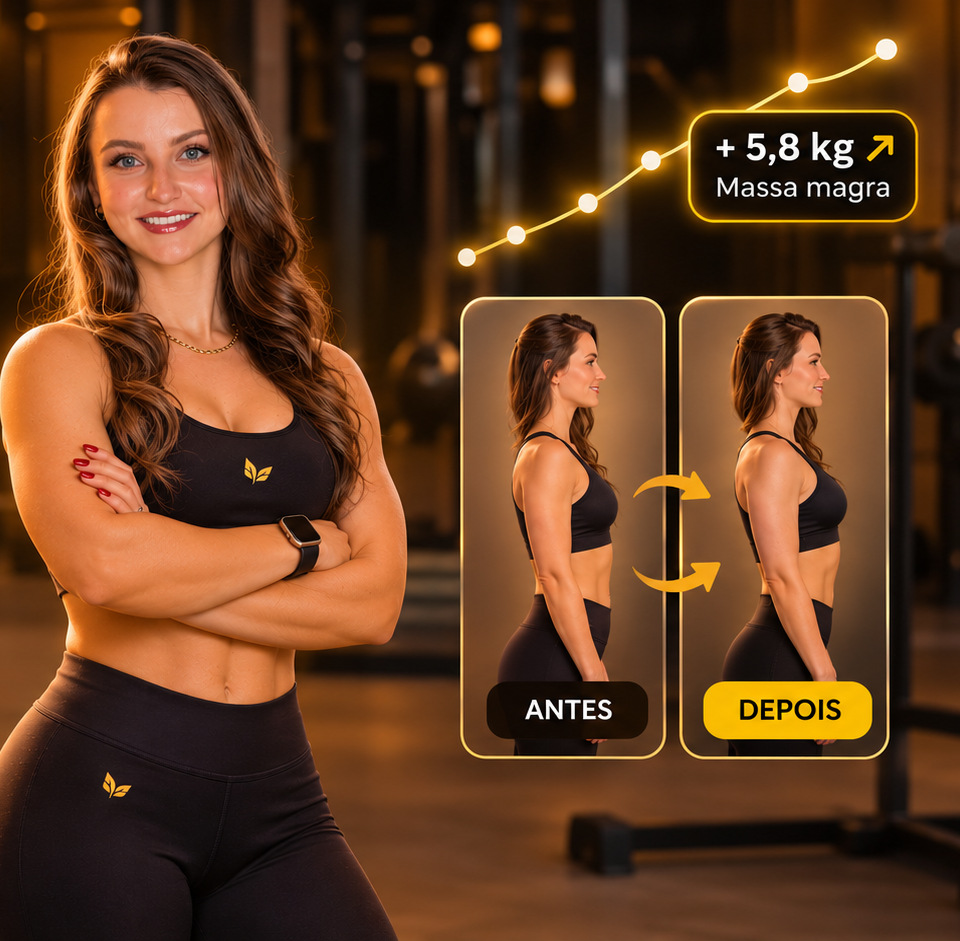
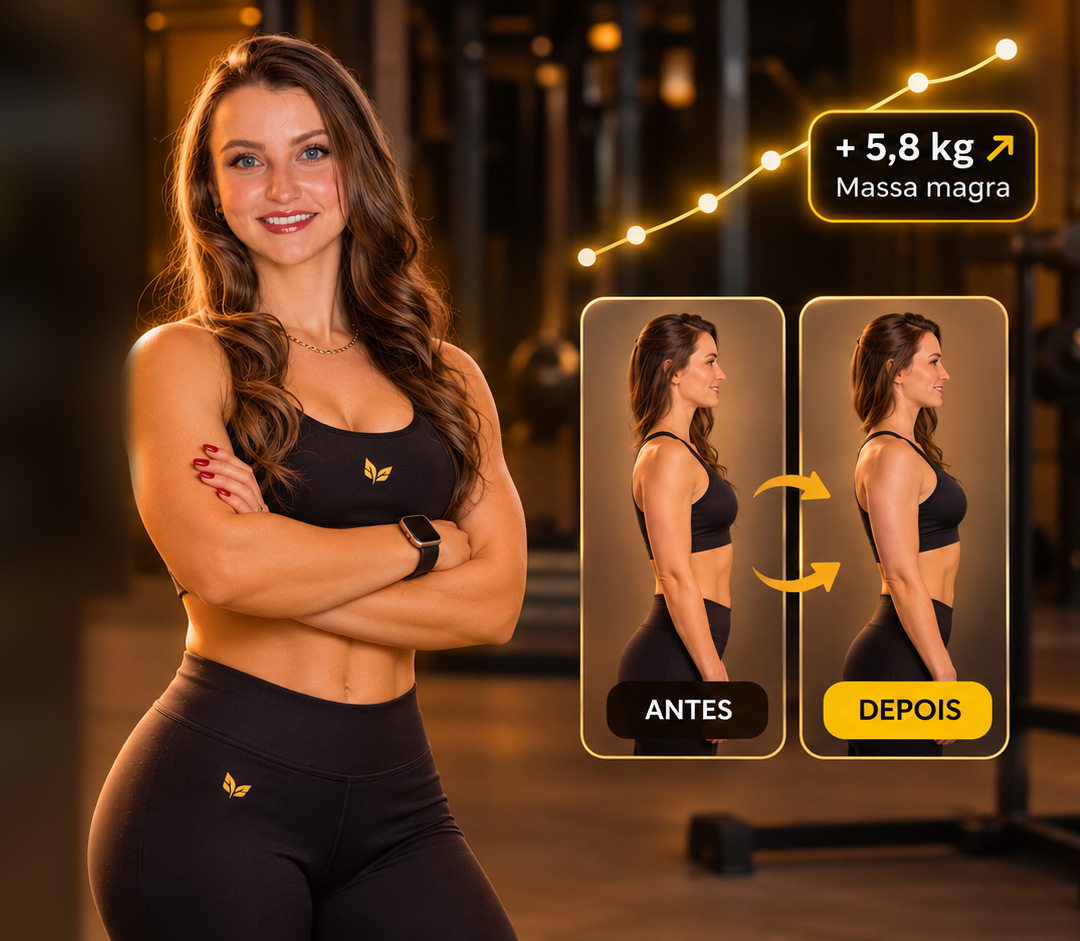
Progresso: mulher mais à direita e mais visível — 20261031_progresso4

diff --git a/index.html b/index.html
@@ -10,7 +10,7 @@
    aviso que o cliente com o app aberto recebe de que existe versao nova.
    Fica AQUI, nos primeiros bytes do arquivo, porque a checagem de
    atualizacao so le os primeiros 4 KB. Nao mover para baixo. */
-var APP_VERSION="20261031_progresso3";
+var APP_VERSION="20261031_progresso4";
 </script>
 <script>
 /* 23/10: tema escolhido NESTE aparelho, aplicado antes de pintar a tela. */
@@ -2557,9 +2557,10 @@ html[data-theme="light"] .pgr-hero .fia-ic svg .pgr-tr{stroke:#f5b820}
 .pgr-m .pgr-tag-depois{left:77.2%;top:82.4%;width:19.2%;height:8.4%}
 .pgr-hero-img img:not([src]){visibility:hidden}
 /* mulher (foto nova 31/10, 960x941) */
-.pgr-f .pgr-tag-kg{left:71.7%;top:11.9%;width:23.8%;height:11.5%}
-.pgr-f .pgr-tag-antes{left:50.4%;top:72.4%;width:17.3%;height:6.2%}
-.pgr-f .pgr-tag-depois{left:73.1%;top:72.4%;width:17.9%;height:6.2%}
+.pgr-f .pgr-tag-kg{left:74.6%;top:11.9%;width:21.4%;height:11.5%}
+.pgr-f .pgr-tag-antes{left:55.9%;top:72.4%;width:15.4%;height:6.2%}
+.pgr-f .pgr-tag-depois{left:76.1%;top:72.4%;width:16%;height:6.2%}
+.pgr-f:before{background:linear-gradient(90deg,#060606 0%,rgba(6,6,6,.75) 10%,rgba(6,6,6,.3) 26%,rgba(6,6,6,0) 40%)}
 
 /* ===== CABECALHO DO CALENDARIO (03/10) =====
    "CALENDARIO" em fonte larga ocupa 199 px e o seletor "< Out 2026 >" precisa
